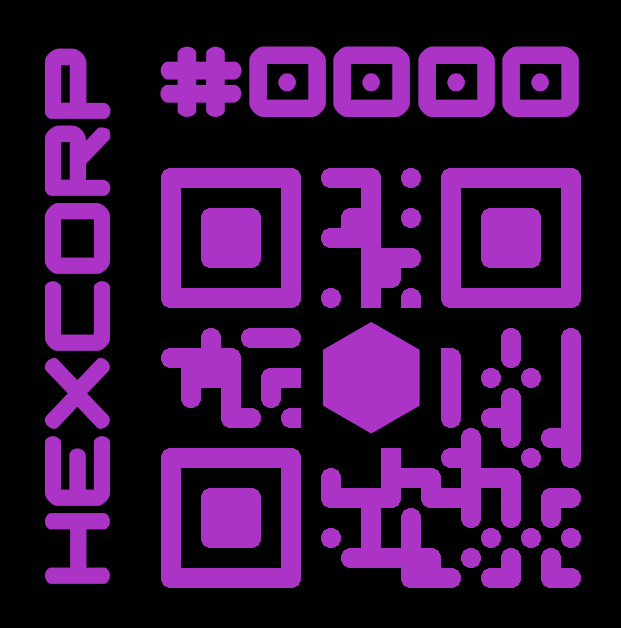
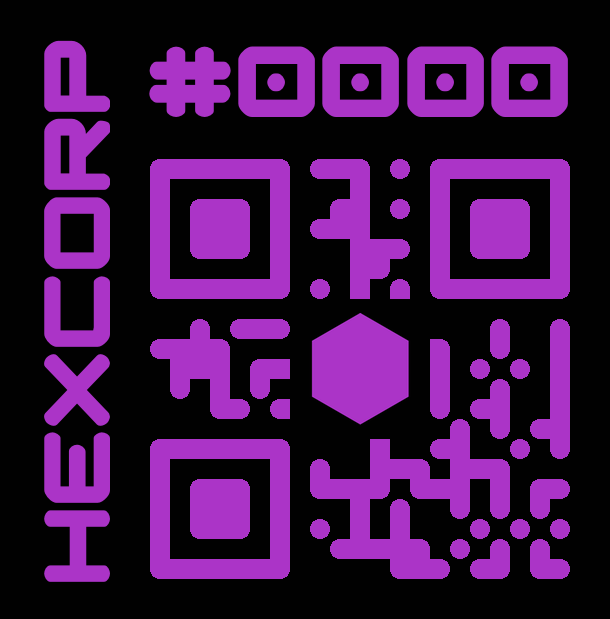
Cleaned up tag func

diff --git a/DroneTools.py b/DroneTools.py
@@ -72,65 +72,104 @@ class DroneTag():
         return qr_img.convert("RGB")
 
     def generate_drone_tag(self, qr_img, drone_data):
+
+        new_img = qr_img
+
+        # Get Options
         front_color = tuple(int(drone_data.get("front_color", "#FFFFFF").lstrip('#')[i:i+2], 16) for i in (0, 2, 4))
         back_color = tuple(int(drone_data.get("back_color", "#010101").lstrip('#')[i:i+2], 16) for i in (0, 2, 4))
-        font_path = drone_data.get("font_path", "./assets/font.otf")
-        id_size = drone_data.get("id_size", None)
-        id_margin = drone_data.get("id_margin", 75)
-        title_size = drone_data.get("title_size", None)
-        title_margin = drone_data.get("title_margin", 70)
         square = drone_data.get("square", False)
-        text = drone_data.get("drone_id", "")
-        side_text = drone_data.get("title", "")
         barcode = self.drone_data.get("barcode", False)
-        new_img = qr_img
-        if text != "":
-            if id_size == None: font_size=1
-            else: font_size=id_size
-            font = ImageFont.truetype(font_path, font_size)
-            bbox = font.getbbox(text)
-            text_width = bbox[2] - bbox[0]
-            while id_size == None and text_width <= qr_img.width - id_margin:
-                font = ImageFont.truetype(font_path, font_size)
-                bbox = font.getbbox(text)
-                text_width = bbox[2] - bbox[0]
-                font_size += 1
-            text_height = bbox[3] - bbox[1]
-            padding = drone_data.get("id_padding", text_height - 14)
-            if barcode: extra_pad = qr_img.height//20
-            else: extra_pad=0
-            new_img = Image.new("RGB", (qr_img.width, qr_img.height + text_height + padding + extra_pad), back_color)
-            draw = ImageDraw.Draw(new_img)
-            text_x = (new_img.width - text_width) // 2
-            draw.text((text_x, 20), text, fill=front_color, font=font)
-            new_img.paste(qr_img, (0, text_height + padding))
+        # Spacing
+        top_padding = drone_data.get("top_padding",(20 - qr_img.width//25) + 20)
+        if barcode: bottom_padding = drone_data.get("bottom_padding", 30)
+        else: bottom_padding = drone_data.get("bottom_padding", 0)
+        left_padding = drone_data.get("left_padding", top_padding)
+        right_padding = drone_data.get("bottom_padding", 0)
+        #Text
+        font_path = drone_data.get("font_path", "./assets/font.otf")
+        text_margin = drone_data.get("text_margin", 75)
+        text_spacing = drone_data.get("text_padding", 0)
+        # ID
+        text = drone_data.get("drone_id", "")
+        id_size = drone_data.get("id_size", None)
+        # Title
+        side_text = drone_data.get("title", "")
+        title_size = drone_data.get("title_size", None)
 
-        if side_text != "":
-            qr_img = new_img.rotate(-90, expand=True)
-            text = side_text
-            if title_size == None: font_size=1
-            else: font_size=title_size
-            if barcode: less_margin = 7
-            else: less_margin=0
-            title_margin = title_margin + ((text_height - text_height//2)//2) - less_margin
-            font = ImageFont.truetype(font_path, font_size)
-            bbox = font.getbbox(text)
-            text_width = bbox[2] - bbox[0]
-            while title_size == None and text_width <= qr_img.width - title_margin:
+        # Render Top Text
+        if text != "":
+            # Set Font size
+            font_size=1
+            if id_size == None:
+                # Auto Set Font
+                font_size = 1
+                id_text_width = 0
+                while id_text_width <= qr_img.width - text_margin:
+                    font = ImageFont.truetype(font_path, font_size)
+                    bbox = font.getbbox(text)
+                    id_text_width = bbox[2] - bbox[0]
+                    font_size += 1
+            else:
+                # Auto Set Size from option
                 font = ImageFont.truetype(font_path, font_size)
                 bbox = font.getbbox(text)
-                text_width = bbox[2] - bbox[0]
-                font_size += 1
-            text_height = bbox[3] - bbox[1]
-            padding = drone_data.get("title_padding", text_height - (text_height//2//2) + (len(text)//2))
-            if any(ord(c) > 127 for c in text): padding = padding//2
-            new_img = Image.new("RGB", (qr_img.width, qr_img.height + text_height + padding), back_color)
+                id_text_width = bbox[2] - bbox[0]
+                font_size=id_size
+            id_text_height = int((bbox[3] - bbox[1])*1.4) + text_spacing
+            num = bbox[3] - bbox[1]
+            #print(id_text_height, num*.4)
+
+            # Draw new canvase
+            new_img = Image.new("RGB", (qr_img.width, qr_img.height + id_text_height + bottom_padding + top_padding), back_color)
             draw = ImageDraw.Draw(new_img)
-            text_x = ((new_img.width) - text_width) // 2
-            draw.text((text_x, 20), text, fill=front_color, font=font)
-            new_img.paste(qr_img, (0, text_height + padding))
+
+            # Center Text
+            text_x = (new_img.width - id_text_width) // 2
+            draw.text((text_x, top_padding), text, fill=front_color, font=font)
+
+            # Set Image
+            new_img.paste(qr_img, (0, id_text_height+top_padding))
+
+        # Render Side Text
+        if side_text != "":
+            # Rotate the image 90 degrees to make it easier to work with
+            qr_img = new_img.rotate(-90, expand=True)
+
+            # Set Font size
+            if barcode: text_margin += 20
+            font_size=1
+            if id_size == None:
+                # Auto Set Font
+                font_size = 1
+                title_text_width = 0
+                while title_text_width <= qr_img.width - text_margin:
+                    font = ImageFont.truetype(font_path, font_size)
+                    bbox = font.getbbox(side_text)
+                    title_text_width = bbox[2] - bbox[0]
+                    font_size += 1
+            else:
+                # Auto Set Size from option
+                font = ImageFont.truetype(font_path, font_size)
+                bbox = font.getbbox(side_text)
+                title_text_width = bbox[2] - bbox[0]
+                font_size=id_size
+            title_text_height = int((bbox[3] - bbox[1])*1.35) + text_spacing
+            if any(ord(c) > 127 for c in side_text): title_text_height = int(title_text_height*.75)
+
+            # Draw new canvase
+            new_img = Image.new("RGB", (qr_img.width, qr_img.height + title_text_height + right_padding + left_padding), back_color)
+            draw = ImageDraw.Draw(new_img)
+
+            # Center Text
+            text_x = ((new_img.width) - title_text_width) // 2
+            draw.text((text_x, left_padding), side_text, fill=front_color, font=font)
+
+            # Set image and rotate image back to normal
+            new_img.paste(qr_img, (0, title_text_height+left_padding))
             new_img = new_img.rotate(90, expand=True)
 
+        # Square off image
         if square:
             long_size = max(new_img.width, new_img.height)
             short_size =min(new_img.width, new_img.height)
@@ -237,6 +276,7 @@ if __name__ == "__main__":
         {
             "drone_id": "U992",
             "barcode": True,
+            "square": True,
             "font_path": "./assets/font2.otf",
             "title": "Drone",
             "front_color": "#FF8C00",
@@ -268,7 +308,8 @@ if __name__ == "__main__":
             "code_data": "https://www.example.com/",
             "font_path": "./assets/font3.otf",
             "qr_roundness": 0.3,
-            "id_padding": 30,
+            "text_padding": -35,
+            "top_padding": 40,
             "back_color": "#b2aa83",
             "front_color": "#4f603b",
         },
@@ -316,7 +357,7 @@ if __name__ == "__main__":
     for drone in drones[:]:
         #drone_ids = [] # Uncomment this out to disable collision detection
         drone_tag = DroneTag(drone, drone_ids)
-        print(f"Droneified: {drone_tag.drone_id} {json.dumps(drone_tag.drone_data, indent=4)}\n")
+        #print(f"Droneified: {drone_tag.drone_id} {json.dumps(drone_tag.drone_data, indent=4)}\n")
         if drone_tag.drone_id != None: drone_tag.save(f"./examples/{drone_tag.drone_id}.png")
 
 
